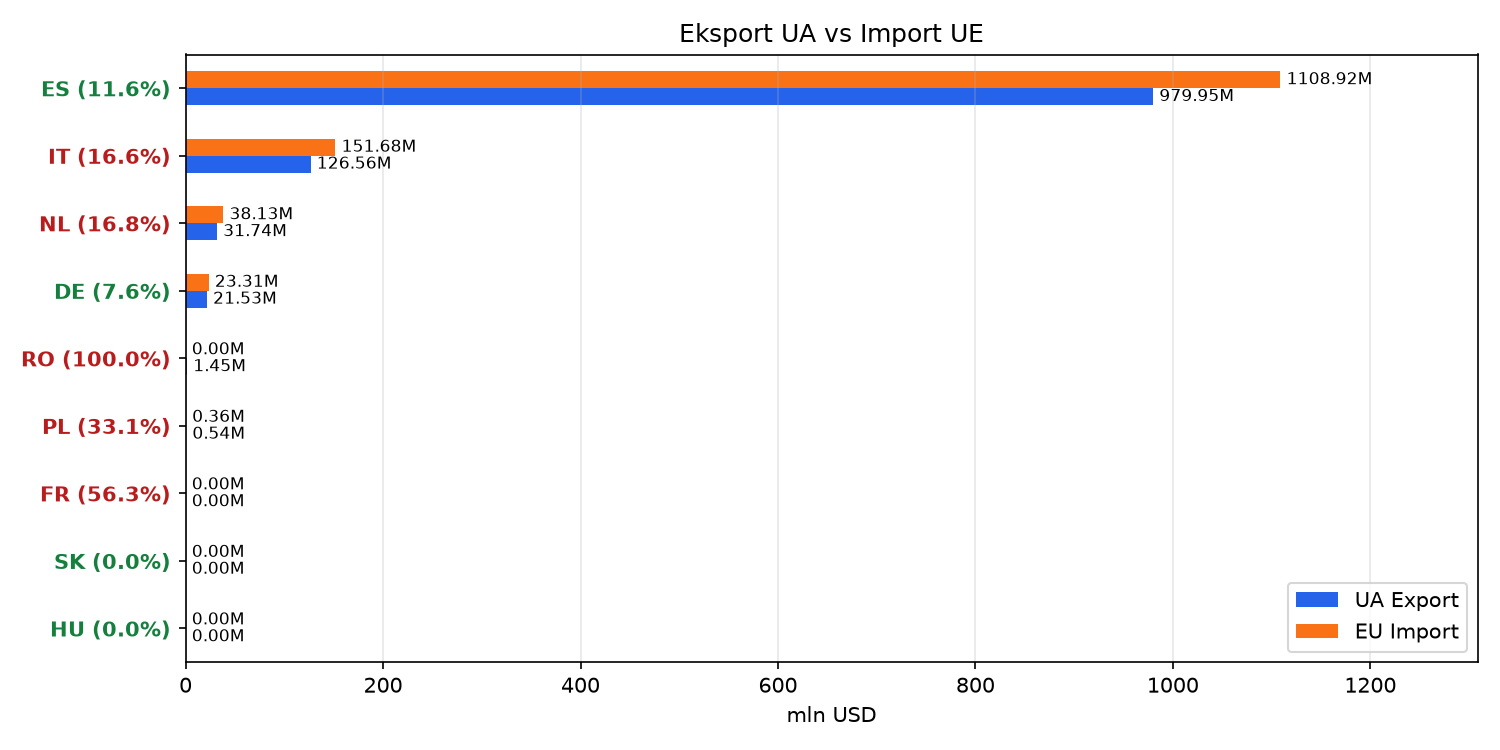
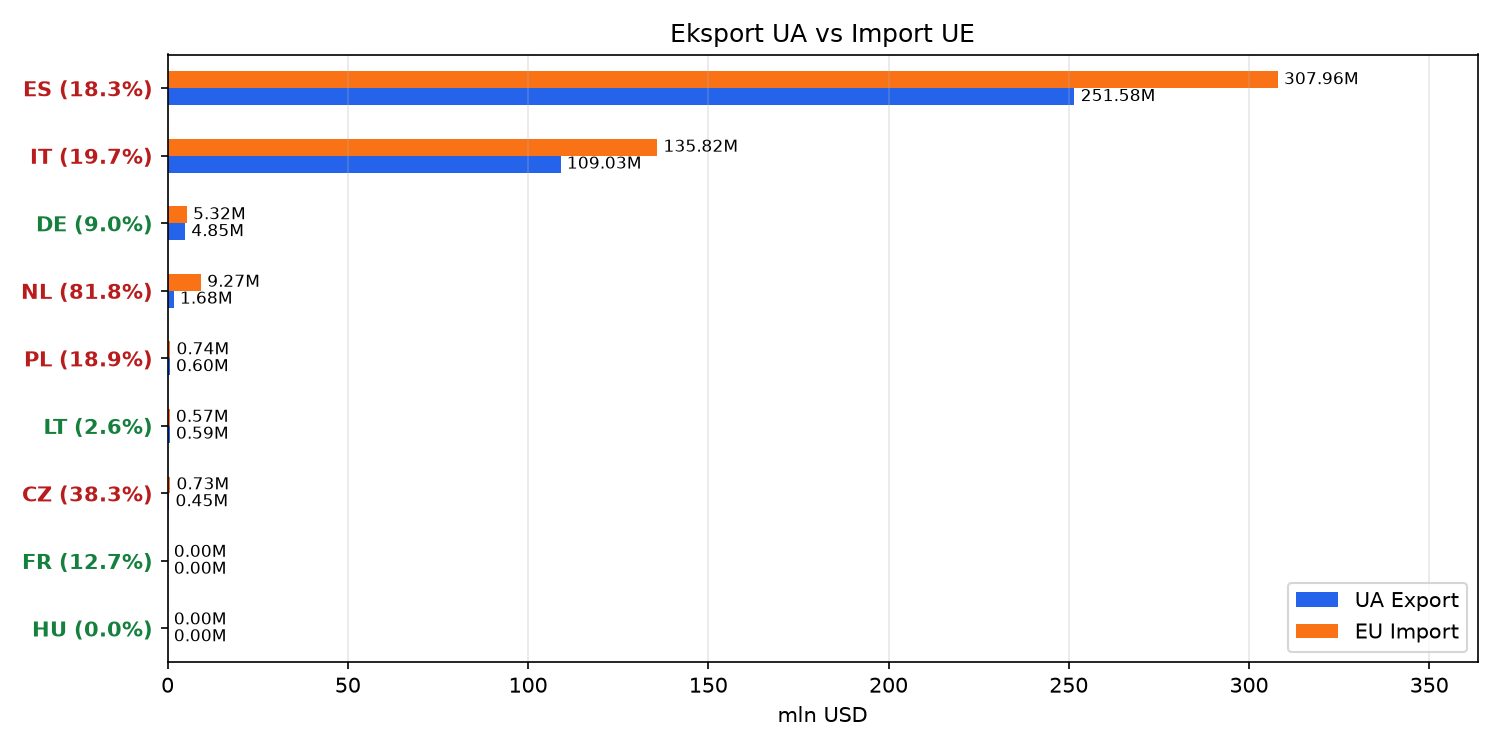
showcase data from 2025

diff --git a/src/ua_ue_trade_mirror_etl/config.py b/src/ua_ue_trade_mirror_etl/config.py
@@ -11,12 +11,12 @@ def _parse_csv_env(name: str, default: str) -> list[str]:
 
 class Settings(BaseModel):
     # domyslne parametry wspólne dla UA Customs i Eurostat
-    target_year: int = Field(default=int(os.getenv("TARGET_YEAR", "2024")))
+    target_year: int = Field(default=int(os.getenv("TARGET_YEAR", "2025")))
     target_currency: str = Field(default=os.getenv("TARGET_CURRENCY", "usd"))
     target_region: str = Field(default=os.getenv("TARGET_REGION", "eu"))
     target_hs_chapter: str = Field(default=os.getenv("TARGET_HS_CHAPTER", "1001"))
     eu_countries: list[str] = Field(
-        default_factory=lambda: _parse_csv_env("EU_COUNTRIES", "PL,DE,RO,HU,SK,ES,IT,NL,FR")
+        default_factory=lambda: _parse_csv_env("EU_COUNTRIES", "PL,DE,LT,HU,SK,ES,CZ,IT,NL,FR")
     )
 
     # Źródła danych i limity czasu
